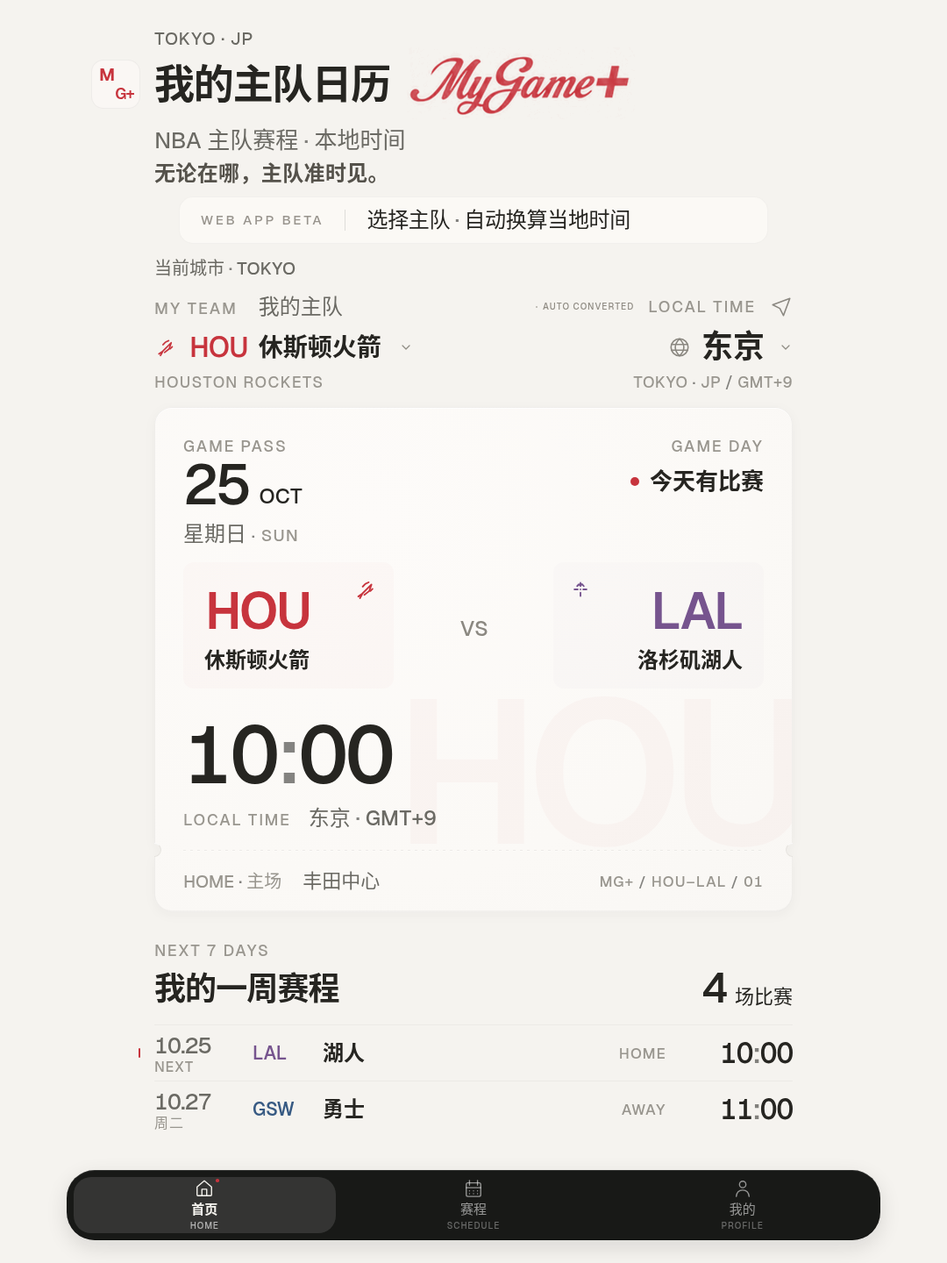
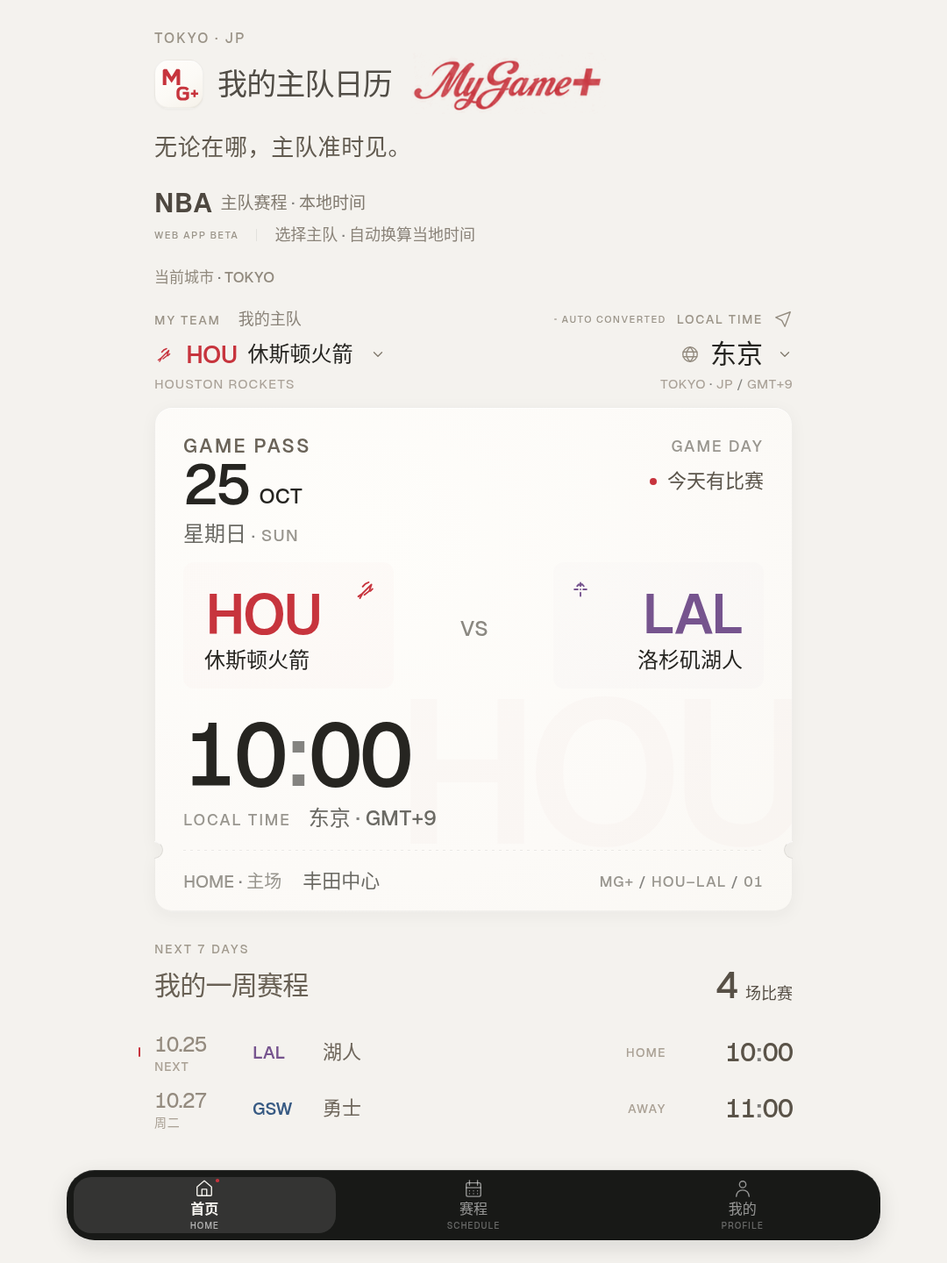
Finalize MyGame+ promo V1.6 art direction

diff --git a/design/promo/promo.html b/design/promo/promo.html
@@ -2,17 +2,18 @@
 <html lang="zh-CN">
 <meta charset="utf-8">
 <meta name="viewport" content="width=1080, initial-scale=1">
-<title>MyGame+ Promo V1.5 — Brand Signal &amp; Product Reality</title>
+<title>MyGame+ Promo V1.6 — Final Art Direction Pass</title>
 <link rel="stylesheet" href="system-island.css">
 <style>
 @font-face{font-family:Geist;src:url('GeistSans.woff2') format('woff2');font-weight:100 900;font-display:block}
 :root{
- --canvas:#f5f3ef;--paper:#fbf9f6;--paper-center:#fdfbf9;--paper-edge:#f9f7f4;
+ --canvas:#f4f2ee;--paper:#fcfaf7;--paper-center:#fefdfa;--paper-edge:#faf8f4;
  --primary:#262521;--secondary:#6b6a64;--tertiary:#99968f;
  --hairline:rgba(20,20,20,.038);--red:#c7343d;--hou:#c7343d;--lal:#76548e;--gsw:#375a83;
  --radius-team:12px;--radius-beta:16px;--radius-pass:20px;--radius-dock:32px;
  --space-1:4px;--space-2:8px;--space-3:12px;--space-4:16px;--space-5:20px;--space-6:24px;--space-8:32px;--space-10:40px;--space-12:48px;
- --type-time:48px;--promo-time-scale:1.9166666667;
+ --type-time:48px;--promo-time-scale:2.0833333333;
+ --system-micro-size:11px;--system-micro-line:16px;--system-micro-tracking:.13em;--system-micro-weight:500;--system-micro-color:#9b958a;
 }
 *{box-sizing:border-box}html,body{margin:0;width:1080px;height:1440px;overflow:hidden}
 body{background:var(--canvas);color:var(--primary);font-family:Geist,'Noto Sans CJK SC',sans-serif;-webkit-font-smoothing:antialiased;font-synthesis:none}
@@ -21,93 +22,95 @@ svg{display:block;overflow:visible;fill:none;stroke:currentColor;stroke-width:1.
 svg *{vector-effect:non-scaling-stroke}
 .number{font-variant-numeric:tabular-nums;font-feature-settings:'tnum';font-weight:530;letter-spacing:-.035em;white-space:nowrap}
 .separator{color:rgba(38,37,33,.56)}.micro{color:var(--tertiary);font-size:18px;font-weight:500;letter-spacing:.10em;line-height:24px}
-.top-label{position:absolute;left:176px;top:32px;width:728px;height:24px;font-size:20px;line-height:24px;letter-spacing:.035em;font-weight:480;color:var(--secondary)}
+.top-label{position:absolute;left:176px;top:32px;width:728px;height:24px;font-size:16px;line-height:24px;letter-spacing:.12em;font-weight:500;color:#9b9488}
 .brand{position:absolute;left:176px;top:64px;width:728px;height:64px;display:flex;align-items:center}
-.brand h1{font-size:46px;line-height:64px;font-weight:600;letter-spacing:-.025em}
-.app-mark{position:absolute;left:-72px;top:4px;width:56px;height:56px;border-radius:14px;background:rgba(251,249,246,.76);border:1px solid rgba(38,37,33,.055);color:var(--red)}
-.mark-m{position:absolute;left:8px;top:5px;font-size:20px;line-height:22px;font-weight:650;letter-spacing:-.04em}
-.mark-g{position:absolute;right:6px;bottom:6px;font-size:18px;line-height:20px;font-weight:600;letter-spacing:-.045em}
-.wordmark{position:absolute;left:288px;top:-10px;width:260px;height:82px;background:var(--red);mask:url('wordmark.png') center/contain no-repeat}
-.subtitle{position:absolute;left:176px;top:144px;width:728px;height:32px;font-size:26px;line-height:32px;font-weight:450;color:var(--secondary)}
-.slogan{position:absolute;left:176px;top:184px;width:728px;height:28px;font-size:24px;line-height:28px;font-weight:550;letter-spacing:.015em;color:#55524b;white-space:nowrap}
-.beta{position:absolute;left:204px;top:224px;width:672px;height:54px;border-radius:var(--radius-beta);background:rgba(255,253,250,.58);border:1px solid rgba(20,20,20,.038);backdrop-filter:blur(8px);display:flex;align-items:center;padding:0 24px;gap:24px}
-.beta-label{font-size:15px;font-weight:500;letter-spacing:.18em;line-height:24px;color:#98948d;white-space:nowrap}
-.divider{width:1px;height:24px;background:rgba(20,20,20,.12);flex:none}
-.beta-copy{font-size:24px;font-weight:500;letter-spacing:-.012em;line-height:32px;white-space:nowrap}
-.city-status{position:absolute;left:176px;top:292px;width:728px;height:28px;font-size:20px;line-height:28px;font-weight:500;color:var(--secondary)}
-.city-status .route{color:#5c5a54}
-.identity{position:absolute;left:176px;top:336px;width:728px;height:112px}
-.identity-label{position:absolute;top:0;left:0;height:28px;width:420px;display:flex;gap:24px;align-items:baseline}
-.identity-label .cn{font-size:24px;letter-spacing:0;line-height:28px;color:var(--secondary);font-weight:500}
-.local-label{position:absolute;right:0;top:0;display:flex;align-items:center;gap:16px;height:28px}
-.local-label svg{width:26px;height:26px;color:#8b8881}
-.auto-state{display:flex;align-items:center;gap:6px;font-size:10px;line-height:16px;letter-spacing:.10em;font-weight:500;white-space:nowrap;color:#8f8b83}
+.brand h1{position:absolute;left:72px;top:10px;font-size:34px;line-height:44px;font-weight:500;letter-spacing:-.025em;color:#514d46;white-space:nowrap}
+.app-mark{position:absolute;left:0;top:4px;width:56px;height:56px;border-radius:16px;background:linear-gradient(145deg,#fffefb 0%,#fcfaf6 54%,#f5f1e9 100%);border:1px solid rgba(38,37,33,.06);box-shadow:inset 0 1px 0 rgba(255,255,255,.70),inset 0 -1px 0 rgba(65,54,39,.035),0 1px 3px rgba(34,29,21,.035);color:var(--red)}
+.mark-glyph{display:block;width:100%;height:100%}
+.mark-glyph,.mark-glyph *{fill:currentColor;stroke:none}
+.wordmark{position:absolute;left:292px;top:-4px;width:224px;height:70px;background:var(--red);mask:url('wordmark.png') center/contain no-repeat}
+.slogan{position:absolute;left:176px;top:152px;width:728px;height:32px;font-size:26px;line-height:32px;font-weight:500;letter-spacing:.025em;color:#625b50;white-space:nowrap}
+.subtitle{position:absolute;left:176px;top:216px;width:728px;height:32px;display:flex;align-items:center;font-size:19px;line-height:28px;font-weight:450;color:#817a6f}
+.subtitle .nba{font-size:30px;line-height:32px;font-weight:650;letter-spacing:.04em;color:#4e4840;margin-right:8px}
+.subtitle .descriptor{white-space:pre}
+.beta{position:absolute;left:176px;top:252px;width:728px;height:32px;border-radius:var(--radius-beta);background:transparent;border:0;display:flex;align-items:center;padding:0;gap:20px}
+.beta-label,.auto-state{font-size:var(--system-micro-size);line-height:var(--system-micro-line);letter-spacing:var(--system-micro-tracking);font-weight:var(--system-micro-weight);color:var(--system-micro-color);white-space:nowrap}
+.divider{width:1px;height:14px;background:rgba(20,20,20,.08);flex:none}
+.beta-copy{font-size:18px;font-weight:450;letter-spacing:0;line-height:24px;color:#8b847a;white-space:nowrap}
+.city-status{position:absolute;left:176px;top:304px;width:728px;height:24px;font-size:17px;line-height:24px;font-weight:500;color:#918a7e}
+.city-status .route{color:#746d62}
+.identity{position:absolute;left:176px;top:352px;width:728px;height:96px}
+.identity-label{position:absolute;top:0;left:0;height:24px;width:420px;display:flex;gap:20px;align-items:baseline}
+.identity-label .micro,.local-label .micro{font-size:14px;line-height:20px;letter-spacing:.12em;color:#9b9488}
+.identity-label .cn{font-size:18px;letter-spacing:0;line-height:24px;color:#8a8379;font-weight:450}
+.local-label{position:absolute;right:0;top:0;display:flex;align-items:center;gap:12px;height:24px}
+.local-label svg{width:22px;height:22px;color:#938b7f}
+.auto-state{display:flex;align-items:center;gap:6px}
 .auto-state::before{content:'';width:2.5px;height:2.5px;border-radius:50%;background:currentColor;opacity:.65;flex:none}
-.team-preference{position:absolute;left:0;top:40px;display:flex;align-items:center;gap:12px;height:40px;white-space:nowrap}
-.team-preference svg{width:28px;height:28px;color:var(--hou)}
-.team-preference .code{font-size:32px;line-height:40px;font-weight:550;letter-spacing:-.025em;color:var(--hou)}
-.team-preference .name{font-size:28px;line-height:40px;font-weight:550}
-.team-preference .chevron{width:16px;height:16px;margin-left:8px;color:#8e8b83}
-.city-control{position:absolute;right:0;top:36px;display:flex;align-items:center;height:48px;gap:12px}
-.city-control .globe{width:26px;height:26px;color:#8b8881}
-.city-control .city{font-size:36px;line-height:48px;font-weight:600;min-width:72px}
-.city-control .chevron{width:16px;height:16px;color:#8e8b83;margin-left:4px}
-.identity-english{position:absolute;left:0;top:88px;width:370px;height:24px;font-size:18px;line-height:24px;font-weight:480;letter-spacing:.07em;color:var(--tertiary)}
+.team-preference{position:absolute;left:0;top:32px;display:flex;align-items:center;gap:12px;height:40px;white-space:nowrap}
+.team-preference svg{width:24px;height:24px;color:var(--hou)}
+.team-preference .code{font-size:28px;line-height:40px;font-weight:550;letter-spacing:-.025em;color:var(--hou)}
+.team-preference .name{font-size:24px;line-height:40px;font-weight:500}
+.team-preference .chevron{width:18px;height:18px;margin-left:8px;color:#817a6d}
+.city-control{position:absolute;right:0;top:32px;display:flex;align-items:center;height:40px;gap:12px}
+.city-control .globe{width:22px;height:22px;color:#938b7f}
+.city-control .city{font-size:30px;line-height:40px;font-weight:500;min-width:60px}
+.city-control .chevron{width:18px;height:18px;color:#817a6d;margin-left:4px}
+.identity-english{position:absolute;left:0;top:76px;width:370px;height:20px;font-size:15px;line-height:20px;font-weight:450;letter-spacing:.07em;color:#aaa298}
 .offset{left:auto;right:0;width:360px;text-align:right;letter-spacing:.025em;font-variant-numeric:tabular-nums}
-.pass{position:absolute;left:176px;top:464px;width:728px;height:576px;border-radius:var(--radius-pass);background:transparent;border:1px solid transparent;filter:drop-shadow(0 3px 6px rgba(20,20,20,.035))}
+.pass{position:absolute;left:176px;top:464px;width:728px;height:576px;border-radius:var(--radius-pass);background:transparent;border:1px solid transparent;filter:drop-shadow(0 4px 8px rgba(34,29,21,.043))}
 /* The paper is physically masked at the two original punch positions. Shadows follow its silhouette. */
-.pass::before{content:'';position:absolute;inset:-1px;z-index:0;border-radius:inherit;border:1px solid rgba(20,20,20,.048);background:radial-gradient(ellipse at 34% 22%,var(--paper-center) 0%,var(--paper) 65%,var(--paper-edge) 100%);box-shadow:inset 0 1px 0 rgba(255,255,255,.64),inset 0 -1px 0 rgba(20,20,20,.034);mask-image:radial-gradient(circle 8px at 0 505px,transparent 7.35px,#000 8.15px),radial-gradient(circle 8px at 100% 505px,transparent 7.35px,#000 8.15px);mask-composite:intersect}
+.pass::before{content:'';position:absolute;inset:-1px;z-index:0;border-radius:inherit;border:1px solid rgba(20,20,20,.055);background:radial-gradient(ellipse at 32% 26%,var(--paper-center) 0%,var(--paper) 65%,var(--paper-edge) 100%);box-shadow:inset 0 1px 0 rgba(255,255,255,.70),inset 0 -1px 0 rgba(20,20,20,.042);mask-image:radial-gradient(circle 10px at 0 505px,transparent 9.45px,#000 10.15px),radial-gradient(circle 10px at 100% 505px,transparent 9.45px,#000 10.15px);mask-composite:intersect}
 .pass-content{position:absolute;inset:0;z-index:1;border-radius:inherit;overflow:hidden}
-.pass-label{position:absolute;left:32px;top:32px}
+.pass-label{position:absolute;left:32px;top:32px;font-size:22px;font-weight:550;color:#6b6459;letter-spacing:.10em}
 .date{position:absolute;left:32px;top:56px;height:64px;display:flex;align-items:baseline;gap:12px}
 .date .day{font-size:64px;line-height:64px}
 .date .month{font-size:24px;line-height:32px;font-weight:500;letter-spacing:.01em;transform:translateY(-1px)}
 .weekday{position:absolute;left:32px;top:128px;height:32px;font-size:24px;line-height:32px;font-weight:500;color:var(--secondary)}
 .weekday .en{font-size:19px;letter-spacing:.06em;font-weight:500;color:var(--tertiary)}
 .game-day{position:absolute;right:32px;top:32px;text-align:right}
-.game-status{margin-top:12px;display:flex;align-items:center;justify-content:flex-end;gap:12px;font-size:26px;line-height:32px;font-weight:550}
-.sports-dot{width:10px;height:10px;border-radius:50%;background:var(--hou);flex:none}
-.team-tint{position:absolute;left:32px;top:176px;width:240px;height:144px;border-radius:var(--radius-team);background:radial-gradient(ellipse at 34% 26%,rgba(199,52,61,.014),rgba(199,52,61,.024))}
-.team-tint.away{left:auto;right:32px;background:radial-gradient(ellipse at 34% 26%,rgba(118,84,142,.014),rgba(118,84,142,.025));text-align:right}
+.game-status{margin-top:12px;display:flex;align-items:center;justify-content:flex-end;gap:12px;font-size:22px;line-height:32px;font-weight:500;color:#5a544a}
+.sports-dot{width:8px;height:8px;border-radius:50%;background:var(--hou);flex:none}
+.team-tint{position:absolute;left:32px;top:176px;width:240px;height:144px;border-radius:var(--radius-team);background:radial-gradient(ellipse at 34% 26%,rgba(199,52,61,.012),rgba(199,52,61,.020))}
+.team-tint.away{left:auto;right:32px;background:radial-gradient(ellipse at 34% 26%,rgba(118,84,142,.012),rgba(118,84,142,.021));text-align:right}
 .team-symbol{position:absolute;right:16px;top:16px;width:30px;height:30px;color:var(--hou)}
 .away .team-symbol{right:auto;left:16px;color:var(--lal)}
-.team-abbr{position:absolute;left:24px;top:24px;height:64px;font-size:58px;line-height:64px;font-weight:600;letter-spacing:-.035em;color:var(--hou);transform:translateX(1px)}
+.team-abbr{position:absolute;left:24px;top:24px;height:72px;font-size:64px;line-height:72px;font-weight:580;letter-spacing:-.035em;color:var(--hou);transform:translateX(1px)}
 .away .team-abbr{left:auto;right:24px;transform:translateX(-1px);color:var(--lal)}
-.team-chinese{position:absolute;left:24px;top:96px;font-size:24px;line-height:32px;font-weight:550;white-space:nowrap}
+.team-chinese{position:absolute;left:24px;top:96px;font-size:24px;line-height:32px;font-weight:500;white-space:nowrap}
 .away .team-chinese{left:auto;right:24px}
 .versus{position:absolute;left:328px;top:236px;width:72px;text-align:center;font-size:24px;line-height:32px;color:#8b8881;font-weight:500;letter-spacing:.02em}
-.watermark{position:absolute;right:-12px;top:300px;width:470px;height:220px;font-size:232px;line-height:1;font-weight:600;letter-spacing:-.055em;color:var(--hou);opacity:.022;text-align:right;pointer-events:none;user-select:none}
+.watermark{position:absolute;right:-12px;top:300px;width:470px;height:220px;font-size:232px;line-height:1;font-weight:600;letter-spacing:-.055em;color:var(--hou);opacity:.016;text-align:right;pointer-events:none;user-select:none}
 .tipoff{position:absolute;left:32px;top:344px;width:560px;height:104px;font-size:calc(var(--type-time)*var(--promo-time-scale));line-height:104px}
 .time-caption{position:absolute;left:32px;top:452px;height:32px;display:flex;align-items:baseline;gap:20px}
 .time-caption .caption-state{font-size:24px;line-height:32px;font-weight:500;color:var(--secondary);font-variant-numeric:tabular-nums}
-.perforation{position:absolute;left:32px;right:32px;top:504px;height:2px;background-image:repeating-linear-gradient(90deg,rgba(67,59,48,.075) 0 3px,transparent 3px 8px),repeating-linear-gradient(90deg,rgba(255,255,255,.42) 0 3px,transparent 3px 8px);background-size:8px .65px,8px .5px;background-position:0 0,0 1px;background-repeat:repeat-x}
+.perforation{position:absolute;left:32px;right:32px;top:504px;height:2px;background-image:repeating-linear-gradient(90deg,rgba(67,59,48,.09) 0 3px,transparent 3px 8px),repeating-linear-gradient(90deg,rgba(255,255,255,.45) 0 3px,transparent 3px 8px);background-size:8px .7px,8px .5px;background-position:0 0,0 1px;background-repeat:repeat-x}
 .stub{position:absolute;left:32px;right:32px;top:520px;height:40px;display:flex;align-items:center;justify-content:space-between;gap:24px}
 .venue{display:flex;gap:24px;align-items:baseline;font-size:22px;line-height:32px;font-weight:500;color:var(--secondary);white-space:nowrap}
 .venue-status{color:var(--tertiary);font-size:20px;font-weight:480}
 .serial{font-size:17px;font-weight:500;letter-spacing:.06em;color:var(--tertiary);white-space:nowrap;font-variant-numeric:tabular-nums}
-.notch{position:absolute;top:496px;width:16px;height:16px;border-radius:50%;background:transparent;z-index:2;pointer-events:none}
-.notch::before{content:'';position:absolute;inset:0;border:1px solid rgba(43,37,28,.06);border-top-color:rgba(255,255,255,.62);border-bottom-color:rgba(43,37,28,.07);border-radius:inherit}
-.notch.left{left:-9px;clip-path:inset(-1px -1px -1px 50%)}.notch.right{right:-9px;clip-path:inset(-1px 50% -1px -1px)}
+.notch{position:absolute;top:494px;width:20px;height:20px;border-radius:50%;background:transparent;z-index:2;pointer-events:none}
+.notch::before{content:'';position:absolute;inset:0;border:1px solid rgba(43,37,28,.075);border-top-color:rgba(255,255,255,.72);border-bottom-color:rgba(43,37,28,.09);border-radius:inherit}
+.notch.left{left:-11px;clip-path:inset(-1px -1px -1px 50%)}.notch.right{right:-11px;clip-path:inset(-1px 50% -1px -1px)}
 .week{position:absolute;left:176px;top:1072px;width:728px;height:224px}
-.week-label{position:absolute;left:0;top:0;height:24px}
-.week h2{position:absolute;left:0;top:32px;height:48px;font-size:36px;line-height:48px;font-weight:600;letter-spacing:-.025em}
-.count{position:absolute;right:0;top:32px;height:48px;display:flex;align-items:baseline;gap:10px}
-.count .number{font-size:48px;line-height:48px;transform:translateY(-1px)}
-.count .text{font-size:22px;line-height:32px;font-weight:500}
-.schedule{position:absolute;left:0;top:96px;width:728px;height:128px;border-top:1px solid var(--hairline)}
-.schedule-row{height:64px;display:grid;grid-template-columns:96px 1fr 92px 128px;column-gap:16px;align-items:center;border-bottom:1px solid var(--hairline);position:relative}
+.week-label{position:absolute;left:0;top:0;height:24px;font-size:14px;line-height:20px;letter-spacing:.14em;color:#a19a8e}
+.week h2{position:absolute;left:0;top:32px;height:40px;font-size:30px;line-height:40px;font-weight:500;letter-spacing:-.025em;color:#696155}
+.count{position:absolute;right:0;top:32px;height:40px;display:flex;align-items:baseline;gap:10px;color:#575046}
+.count .number{font-size:42px;line-height:40px;font-weight:500;transform:translateY(-1px)}
+.count .text{font-size:18px;line-height:24px;font-weight:450}
+.schedule{position:absolute;left:0;top:96px;width:728px;height:128px}
+.schedule-row{height:64px;display:grid;grid-template-columns:96px 1fr 92px 128px;column-gap:16px;align-items:center;position:relative}
 .schedule-row:last-child{border-bottom:0}
 .row-date{height:56px;padding-top:2px;display:flex;flex-direction:column;justify-content:center;gap:0}
-.row-date .number{font-size:26px;line-height:30px;font-weight:480;color:var(--secondary)}
-.row-date .sub{font-size:16px;line-height:20px;font-weight:500;color:var(--tertiary);letter-spacing:.06em}
+.row-date .number{font-size:24px;line-height:30px;font-weight:450;color:#948b7f}
+.row-date .sub{font-size:14px;line-height:20px;font-weight:500;color:#aaa195;letter-spacing:.06em}
 .next-line{position:absolute;left:-18px;top:26px;width:2px;height:11px;border-radius:1px;background:var(--hou)}
-.row-team{display:flex;align-items:center;gap:24px;font-size:24px;line-height:32px;font-weight:550;white-space:nowrap}
-.row-code{width:56px;font-size:21px;font-weight:550;letter-spacing:-.01em;color:var(--lal)}
+.row-team{display:flex;align-items:center;gap:24px;font-size:22px;line-height:32px;font-weight:500;color:#6e665b;white-space:nowrap}
+.row-code{width:56px;font-size:20px;font-weight:550;letter-spacing:-.01em;color:var(--lal)}
 .warriors .row-code{color:var(--gsw)}
-.row-venue{font-size:17px;line-height:24px;font-weight:500;color:var(--tertiary);letter-spacing:.07em;text-align:right}
-.row-time{font-size:32px;line-height:40px;font-weight:530;text-align:right}
+.row-venue{font-size:14px;line-height:24px;font-weight:500;color:#aaa195;letter-spacing:.10em;text-align:right}
+.row-time{font-size:30px;line-height:40px;font-weight:500;color:#5a5348;text-align:right}
 .dock{position:absolute;left:76px;top:1334px;width:928px;height:80px}
-@supports not (backdrop-filter:blur(10px)){.beta{background:rgba(255,253,250,.97)}}
 </style>
 <main aria-label="MyGame+ 宣传图">
  <svg width="0" height="0" style="position:absolute" aria-hidden="true"><defs>
@@ -121,8 +124,8 @@ svg *{vector-effect:non-scaling-stroke}
   <symbol id="user" viewBox="0 0 24 24"><circle cx="12" cy="7" r="4"/><path d="M4 22c.5-5 3.2-8 8-8s7.5 3 8 8"/></symbol>
  </defs></svg>
  <div class="top-label" data-state data-fit id="top-label"></div>
- <header class="brand"><span class="app-mark" role="img" aria-label="MG+ App Mark" data-fit><span class="mark-m" aria-hidden="true">M</span><span class="mark-g" aria-hidden="true">G+</span></span><h1>我的主队日历</h1><span class="wordmark" role="img" aria-label="MyGame+"></span></header>
- <p class="subtitle" data-fit>NBA 主队赛程<span class="separator"> · </span>本地时间</p>
+ <header class="brand"><span class="app-mark" role="img" aria-label="MG+ App Mark" data-fit><svg class="mark-glyph" viewBox="0 0 56 56" aria-hidden="true"><path class="mark-m" data-letter="M" d="M9 29V11.5L10.5 10H13.8L19.4 19.1 25 10H28.2L29.5 11.5V29H25.3V17.6L19.4 26.5 13.2 17.6V29Z"/><g class="mark-g" data-letter="G+"><path d="M40 33.4 37.5 35.8C36.6 34.6 35.4 34 33.8 34H31.8C29.9 34 28.7 35.4 28.7 37.4V40.6C28.7 42.6 29.9 44 31.8 44H34.2C35.1 44 35.9 43.7 36.5 43.1V40.3H32.6V37.2H40V44.5C38.5 46.3 36.5 47.2 34.1 47.2H31.8C27.7 47.2 25.2 44.7 25.2 40.6V37.4C25.2 33.3 27.7 30.8 31.8 30.8H33.8C36.5 30.8 38.4 31.6 40 33.4Z"/><path d="M45.2 34.8H47.8V37.8H50.8V40.4H47.8V43.4H45.2V40.4H42.2V37.8H45.2Z"/></g></svg></span><h1>我的主队日历</h1><span class="wordmark" role="img" aria-label="MyGame+"></span></header>
+ <p class="subtitle" data-fit><span class="nba">NBA</span><span class="descriptor">主队赛程<span class="separator"> · </span>本地时间</span></p>
  <p class="slogan" data-state data-fit id="slogan"></p>
  <section class="beta" data-fit><span class="beta-label">WEB APP BETA</span><span class="divider"></span><span class="beta-copy">选择主队<span class="separator"> · </span>自动换算当地时间</span></section>
  <p class="city-status" data-state data-fit id="city-status"></p>

diff --git a/src/styles/system-island.css b/src/styles/system-island.css
@@ -43,7 +43,7 @@
   flex-direction: column;
   align-items: center;
   justify-content: center;
-  gap: 3px;
+  gap: 2px;
   text-align: center;
   font: inherit;
   transition: background-color var(--island-motion), opacity 140ms ease-out;
@@ -60,7 +60,7 @@
   stroke-linejoin: round;
 }
 .system-island-item svg * { vector-effect: non-scaling-stroke; }
-.system-island-item .island-cn { font-size: 15px; line-height: 20px; font-weight: 500; }
+.system-island-item .island-cn { font-size: 16px; line-height: 22px; font-weight: 500; }
 .system-island-item .island-en { font-size: 10px; line-height: 12px; font-weight: 480; letter-spacing: .10em; color: var(--island-label-inactive); }
 .system-island-item[aria-current="page"] { background: var(--island-active-surface); color: var(--island-text-active); }
 .system-island-item[aria-current="page"] .island-cn { font-weight: 550; }

diff --git a/docs/system-island.md b/docs/system-island.md
@@ -1,18 +1,20 @@
-# MyGame+ Promo V1.5 — Brand Signal & Product Reality
+# MyGame+ Promo V1.6 — Final Art Direction Pass
 
 System is engineered. Game is tactile.
-V1.5 adds brand and product-state cues to the V1.4 material system. Existing event content, team symbols, bottom navigation and App business logic are unchanged.
+V1.6 refines the existing brand seal, header hierarchy and tactile pass. Existing information architecture, event content, team symbols, bottom navigation destinations and App business logic are unchanged. No module, function, CTA or copy is added.
 
-## Brand and product reality
+## Fixed brand lockup and four header levels
 
-- The existing brand title and script wordmark keep their coordinates and shapes. A 56×56px ivory App Mark sits at x=104/y=68 to the title's left, with a 14px radius and a very faint border. Geist M sits upper-left; G+ sits lower-right. There is no red background, horizontal abbreviation or stacked center alignment.
-- Tokyo slogan: `无论在哪，主队准时见。` London slogan: `换个城市，不换主队。` Both use x=176/y=184, width=728, height=28, 24px type at weight 550. The slogan sits between the original subtitle and the product status surface.
-- To fit the slogan, only the Beta strip and city state move within the header area. GAME PASS, schedule and bottom island keep their previous coordinates and sizes.
+- Brand: the 56×56px ivory App Mark is at x=176/y=68, radius 16px. The Chinese title is 34px/44px, weight 500, warm graphite; the original script silhouette is 224×70px at x=468/y=60. These are one fixed, left-aligned lockup rather than competing headings.
+- The mark uses three custom SVG contours, with no font glyphs. M has chamfered shoulders and a diagonal inner counter; G has a squared-round open contour, shared cuts and an integrated plus. M remains upper-left and G+ lower-right with negative space between. The ivory seal has a subtle upper-left light, restrained lower edge and a 0 1px 3px / 3.5% contact shadow. There is no red background.
+- Emotion: Tokyo `无论在哪，主队准时见。`; London `换个城市，不换主队。`. Both use x=176/y=152, width=728, height=32, 26px type at weight 500. A 24px gap from the brand and 32px pause before product identity separate the slogan from ordinary explanatory text.
+- Product identity: `NBA 主队赛程 · 本地时间` at y=216, with NBA 30px/650 and the descriptor 19px/450. WEB APP BETA and the existing capability copy sit at y=252 in a flat 32px row. No enclosing light, blur, border or card competes with the pass. Divider spacing is preserved explicitly.
+- State: the city-state line sits at y=304; MY TEAM / LOCAL TIME starts at y=352, selector values at y=384, metadata at y=428. Spacing and smaller, lighter type group these as system state. GAME PASS, schedule and bottom island keep their established coordinates and sizes.
 - Tokyo state: `当前城市 · TOKYO`. London state: `城市切换 · TOKYO → LONDON`. Same position, size and weight; the route is subtly darker.
-- `AUTO CONVERTED` is a 10px unboxed neutral microstate immediately before LOCAL TIME. A tiny neutral dot supports it without turning it into a feature badge. The main LOCAL TIME/arrow coordinates remain intact.
-- Existing team/city chevrons increase from 14px to 16px with about 12% stronger ink contrast, retaining 1.5px rounded strokes. There is no input frame, button surface or pill.
+- `AUTO CONVERTED` and WEB APP BETA share one system-microcopy token: 11px/16px, weight 500, tracking .13em, warm neutral `#9B958A`. AUTO remains unboxed before LOCAL TIME, supported only by a tiny neutral dot.
+- Existing team/city chevrons are 18px with clearer warm-neutral ink `#817A6D`, retaining 1.5px rounded strokes and precise value-to-chevron gaps. There is no input frame, button surface or pill.
 - The export renders the existing demo UTC fixtures through Intl/IANA timezone conversion, matching the real App's established behavior; this adds no product feature or live data source.
-- GAME PASS receives restrained upper-left light at 34%/22%. Other editorial areas and the quieter Beta remain flat. The serial stays `MG+ / HOU–LAL / 01` with no developer/build/version wording.
+- GAME PASS receives restrained upper-left light at 32%/26%. Other editorial areas and Beta remain flat. The serial stays `MG+ / HOU–LAL / 01` with no developer/build/version wording.
 - Product reality comes from WEB APP BETA, clickable-looking selectors, the functioning navigation language and the paired Tokyo/London state. No visible URL/domain, QR code or new CTA is added.
 
 ## Shared material and navigation
@@ -23,21 +25,21 @@ V1.5 adds brand and product-state cues to the V1.4 material system. Existing eve
 - Top inset: white 10%; bottom inset: black 26%; outside shadow: 0 8px 24px, black 12%; soft edge: white 2.5%.
 - Active icon/Chinese: warm white, Chinese weight 550; English: white 64%; 3.6px signal-red dot.
 - Inactive icon/Chinese: white 54%; English: white 35%.
-- Chinese: 15px/20px, weight 500 (active 550). English: 10px/12px, weight 480, tracking .10em.
+- Chinese: 16px/22px, weight 500 (active 550). English: 10px/12px, weight 480, tracking .10em. A 2px internal gap preserves the 64px navigation stack within the 80px island, making Chinese the first reading level.
 - Three equal tracks; 22px icons, 1.5px rounded strokes with non-scaling paths; identical icon and text baselines. The 80px outer height is retained.
 - Promo island: x=76, y=1334, width=928, height=80, bottom=26 on a 1080×1440 canvas. Schedule ends at y=1296.
-- Mini status surface: x=204, y=224, width=672, height=54, radius=16; warm white 58%, blur 8px, border 3.8%, no inner highlight or external shadow.
+- Beta is now flat microcopy in the product-identity group rather than another surface. The brand seal is the sole small branding exception; GAME PASS is the only illuminated content object, and the dark island remains the distinct engineered control layer.
 
 ## Warm stone, tactile paper, signal color
 
-- Canvas: `#F5F3EF`, a quiet warm-stone editorial background.
-- Paper: `#FBF9F6`; central light `#FDFBF9`; settled edge `#F9F7F4`. The very low-contrast radial light is luminance-only; the pass has no blur or glossy reflection.
-- Paper edge: white 64% top inset, dark 3.4% bottom inset, a 4.8% hairline. A low `drop-shadow(0 3px 6px rgba(20,20,20,.035))` follows the genuinely cut silhouette.
-- Exactly two original 16px side punch positions are retained. The paper surface uses intersecting radial masks; the holes reveal Canvas. A faint white upper arc and darker inner arc describe the cut edge.
-- The tear guide uses a regular 8px pitch (3px mark / 5px gap), 0.65px ink and a restrained 0.5px light edge. It stays centered on the cutouts, without a groove.
-- Identity patches retain 12px radii with no border or shadow. Pale red/purple ink varies only from 1.4% in the center to about 2.4–2.5% at the edge, weaker than the pass lighting.
+- Canvas: `#F4F2EE`, a quiet, flat warm-stone editorial background.
+- Paper: `#FCFAF7`; central light `#FEFDFA`; settled edge `#FAF8F4`. A broad luminance-only radial light gives the center air while keeping the edges stable; the pass has no blur, glossy reflection or 3D transform.
+- Paper edge: white 70% top inset, dark 4.2% bottom inset, a 5.5% hairline. A low `drop-shadow(0 4px 8px rgba(34,29,21,.043))` follows the cut silhouette rather than a rectangular box. This increases separation from the flat canvas without making the pass float high.
+- Exactly two original side punch positions are retained; their diameter is refined to 20px. The paper surface uses intersecting radial masks, so the holes reveal Canvas. A 72% white upper arc and 7.5–9% darker inner/lower arc describe the cut material.
+- The tear guide uses a regular 8px pitch (3px mark / 5px gap), 0.7px ink at 9% and a restrained 0.5px light edge. It stays precisely centered on the cutouts, without a groove.
+- Identity patches retain 12px radii with no border or shadow. Pale red/purple ink varies only from 1.2% in the center to about 2–2.1% at the edge, weaker than the pass lighting. HOU/LAL increase to 64px/72px at weight 580; core time uses 100px/104px from the existing 48px design token and promo scale. The watermark steps back to 1.6%.
 - Unified signal red: `#C7343D`; LAL purple: `#76548E`; GSW blue: `#375A83`. Color encodes identity/state. The MyGame+ script silhouette is reused as a mask, changing ink color without reshaping the mark.
-- Ordinary city/identity/schedule regions remain flat. Dividers use 3.8% opacity; no additional boxes or shadows are introduced there.
+- Ordinary city/identity/schedule regions remain flat. NEXT 7 DAYS becomes a quieter summary: 30px/500 section heading, 42px/500 count, smaller secondary dates, aligned team identities and 30px times. Schedule rules are removed; row grouping relies on spacing and alignment rather than a table frame. No additional boxes or shadows are introduced there.
 
 ## Contextual Island State in the real App
 
@@ -70,9 +72,10 @@ Output:
 - `output/douyin/mygame-plus-douyin-02-london.png`
 
 The exporter verifies dimensions, complete PNG decoding, Geist readiness, text fit, radius and geometry, navigation alignment, equal material parameters and pixel-identical islands.
-It also checks the two exact slogans, diagonal App Mark, AUTO CONVERTED, chevron styling, header safe gaps, flat editorial regions and absence of visible URLs.
+It also checks the two exact slogans, custom vector App Mark, unified system microcopy, chevron styling, four header levels and safe gaps, borderless summary, flat editorial regions and absence of visible URLs.
 Differences between the two images occur only in slogan, city, GMT, time and city-transition text regions.
-The validation report is written to `/tmp/mygame-promo-v1.5-validation.json` rather than checked in as a generated artifact.
+The validation report is written to `/tmp/mygame-promo-v1.6-validation.json` rather than checked in as a generated artifact.
+For art-direction review, it also exports 324×432 (30%) thumbnails and borderless full-size/30% variants to `/tmp/mygame-promo-v1.6-{tokyo,london}-*.png`. Border removal is checked to leave every shared layout landmark unchanged. These diagnostics are not delivery images or extra repository artifacts.
 
 With the App running locally, run `node design/promo/check-app.cjs` (`MYGAME_APP_URL` defaults to `http://127.0.0.1:3200`).
 This checks real city/team navigation, fixture/no-fixture states, context dismissal, reduced motion and 320/390/480/1080px safe areas.
